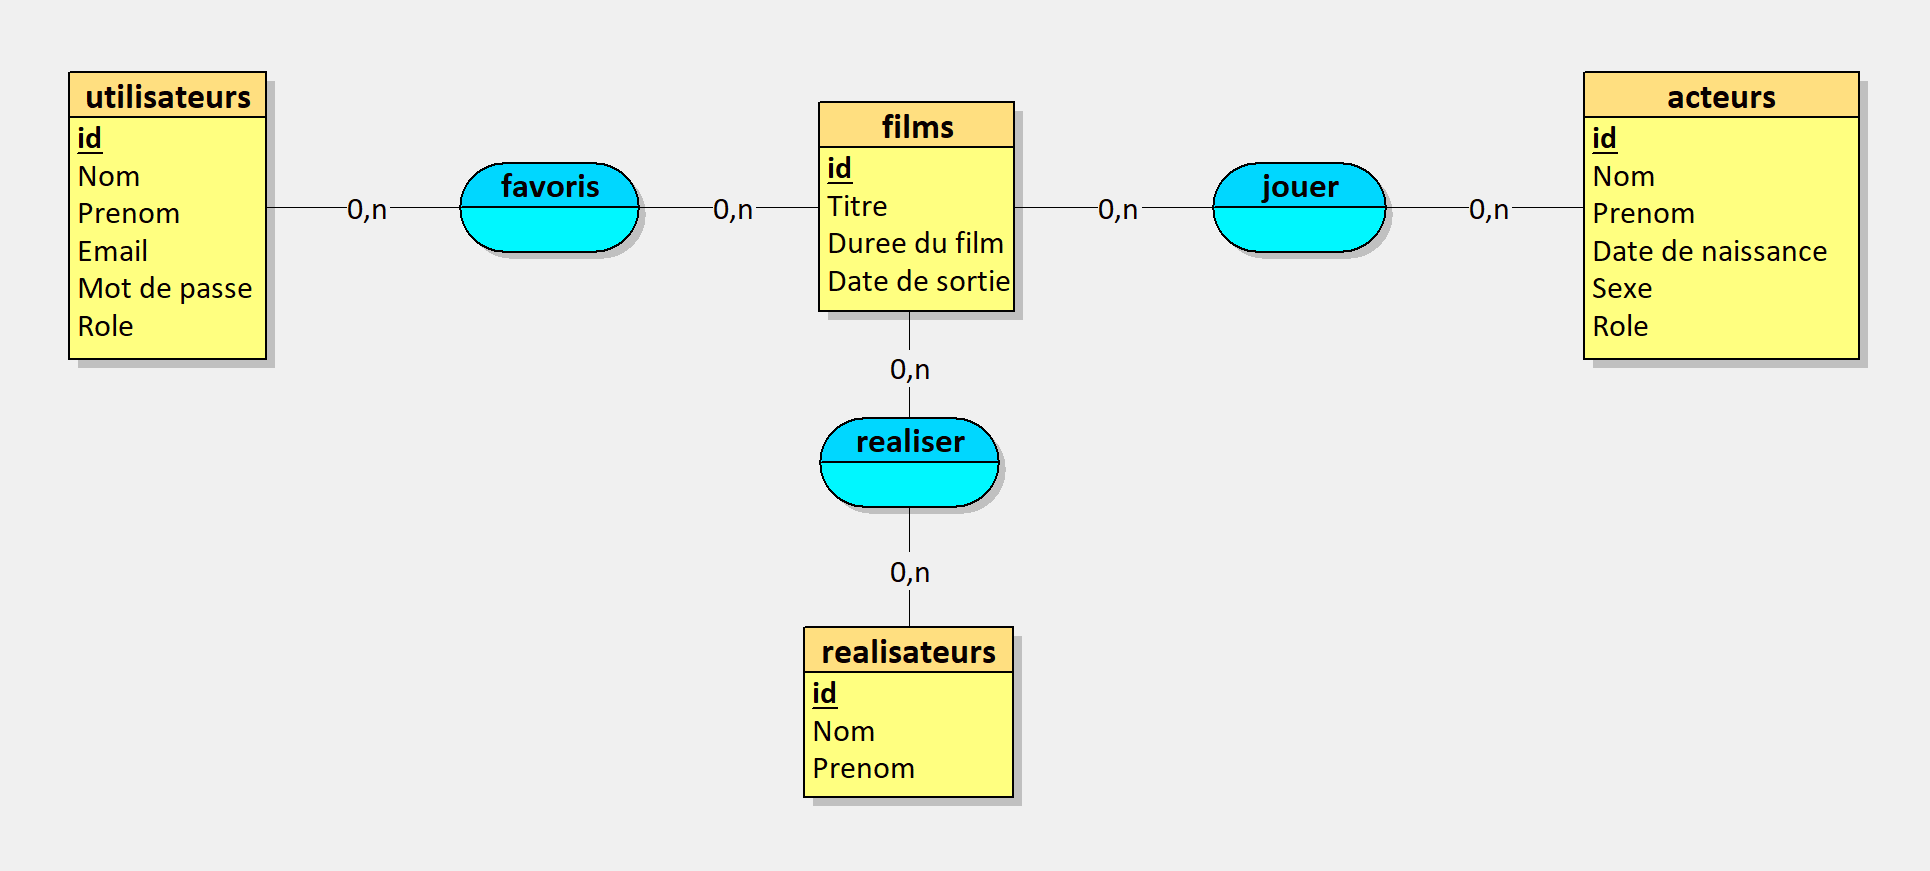
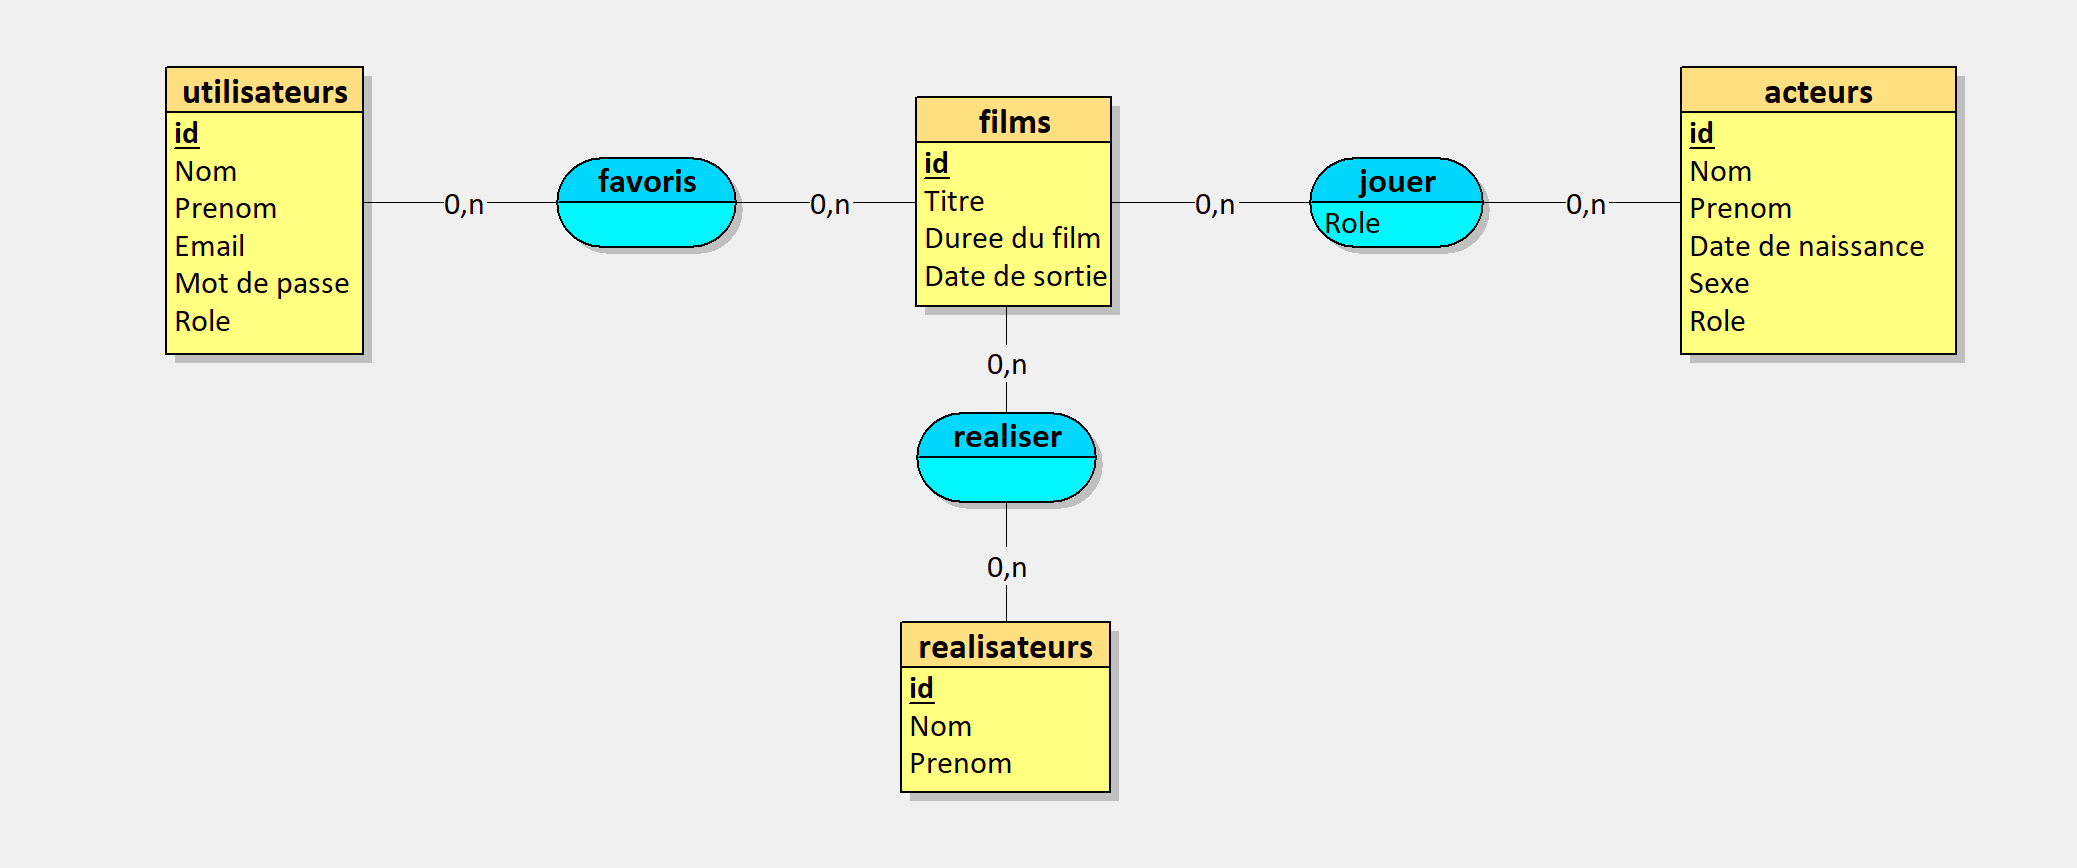
fix(Documents/create_tables.md, requete, Dico, MCD): move Role data in associative table jouer"

diff --git a/Documents/insert_data.md b/Documents/insert_data.md
@@ -16,7 +16,7 @@ VALUES ('Ruben', 'Fleischer'),
        ('Nolan', 'Christopher');
 
 
-INSERT INTO realiser (id_Films, id_Réalisateurs)
+INSERT INTO realiser (id_Films, id_Realisateurs)
 VALUES (1, 1),
 	(2, 2),
        (3, 3),
@@ -24,34 +24,36 @@ VALUES (1, 1),
        (5, 4);
 
 
-INSERT INTO acteurs (Nom, Prenom, Date_de_naissance, Sexe, Role)
-VALUES ('Harrelson', 'Woody', '1961-07-23', 'M', 'Principal'),
-       ('Eisenberg', 'Jesse', '1983-10-05', 'M', 'Principal'),
-       ('Stone', 'Emma', '1988-11-06', 'F', 'Secondaire'),
-       ('Breslin', 'Abigail', '1996-04-14', 'F', 'Secondaire'),
-       ('Travolta', 'John', '1954-02-18', 'M', 'Principal'),
-       ('Jackson', 'Samuel L.', '1948-12-21', 'M', 'Principal'),
-       ('Stoltz', 'Eric', '1961-09-30', 'M', 'Secondaire'),
-       ('Ford', 'Harrison', '1942-07-13', 'M', 'Principal'),
-       ('Hamill', 'Mark', '1951-09-25', 'M', 'Principal'),
-       ('Jeremy', 'Bulloch', '1945-02-16', 'M', 'Secondaire'),
-       ('Murphy', 'Cillian', '1976-05-25', 'M', 'Principal'),
-       ('DiCaprio', 'Leonardo', '1974-11-11', 'M', 'Principal');
+INSERT INTO acteurs (Nom, Prenom, Date_de_naissance, Sexe)
+VALUES ('Harrelson', 'Woody', '1961-07-23', 'M'),
+       ('Eisenberg', 'Jesse', '1983-10-05', 'M'),
+       ('Stone', 'Emma', '1988-11-06', 'F'),
+       ('Breslin', 'Abigail', '1996-04-14', 'F'),
+       ('Travolta', 'John', '1954-02-18', 'M'),
+       ('Jackson', 'Samuel L.', '1948-12-21', 'M'),
+       ('Stoltz', 'Eric', '1961-09-30', 'M'),
+       ('Ford', 'Harrison', '1942-07-13', 'M'),
+       ('Hamill', 'Mark', '1951-09-25', 'M'),
+       ('Jeremy', 'Bulloch', '1945-02-16', 'M'),
+       ('Murphy', 'Cillian', '1976-05-25', 'M'),
+       ('DiCaprio', 'Leonardo', '1974-11-11', 'M');
 
 
-INSERT INTO jouer (id_Films, id_Acteurs)
-VALUES (1, 1),
-	(1, 2),
-       (1, 3),
-       (1, 4),
-       (2, 5),
-       (2, 6),
-       (2, 7),
-       (3, 8),
-       (3, 9),
-       (3, 10),
-       (4, 11),
-       (5, 12);
+INSERT INTO jouer (id_Films, id_Acteurs, Role)
+VALUES 
+    (1, 1, 'Principal'),
+    (1, 2, 'Principal'),
+    (1, 3, 'Secondaire'),
+    (1, 4, 'Secondaire'),
+    (2, 5, 'Principal'),
+    (2, 6, 'Principal'),
+    (2, 7, 'Secondaire'),
+    (3, 8, 'Principal'),
+    (3, 9, 'Principal'),
+    (3, 10, 'Secondaire'),
+    (4, 11, 'Principal'),
+    (5, 12, 'Principal');
+
 
 
 INSERT INTO utilisateurs (Nom, Prenom, Email, Mot_de_passe, Role)

diff --git a/Documents/create_tables.md b/Documents/create_tables.md
@@ -13,8 +13,7 @@ CREATE TABLE IF NOT EXISTS acteurs(
    Nom VARCHAR(25) NOT NULL,
    Prenom VARCHAR(25) NOT NULL,
    Date_de_naissance DATE NOT NULL,
-   Sexe VARCHAR(5) NOT NULL,
-   Role VARCHAR(25) NOT NULL
+   Sexe VARCHAR(5) NOT NULL
 );
 
 CREATE TABLE IF NOT EXISTS realisateurs(
@@ -35,13 +34,14 @@ CREATE TABLE IF NOT EXISTS utilisateurs(
 CREATE TABLE IF NOT EXISTS jouer(
    id INT PRIMARY KEY AUTO_INCREMENT,
    id_Films INT REFERENCES films(id),
-   id_Acteurs INT REFERENCES acteurs(id)
+   id_Acteurs INT REFERENCES acteurs(id),
+   Role VARCHAR(25) NOT NULL
 );
 
 CREATE TABLE IF NOT EXISTS realiser(
    id INT PRIMARY KEY AUTO_INCREMENT,
    id_Films INT REFERENCES films(id),
-   id_Réalisateurs INT REFERENCES realisateurs(id)
+   id_Realisateurs INT REFERENCES realisateurs(id)
 );
 
 CREATE TABLE IF NOT EXISTS favoris(

diff --git a/Documents/requête.md b/Documents/requête.md
@@ -1,4 +1,4 @@
-# Requête SQL
+# Requêtes SQL
 
 
 ### requête 1 :
@@ -22,11 +22,11 @@ ORDER BY Nom, Prenom;
 ### requête 3 :
 
 ```sql
-SELECT Nom, Prenom
+SELECT acteurs.Nom, acteurs.Prenom, Role
 FROM jouer
-INNER JOIN acteurs ON Jouer.id_Acteurs = acteurs.id
+INNER JOIN acteurs ON jouer.id_Acteurs = acteurs.id
 WHERE jouer.id_Films = 1
-      AND acteurs.Role = 'Principal';
+      AND jouer.Role = 'Principal';
 ```
 
 ### requête 4 :

diff --git a/README.md b/README.md
@@ -4,6 +4,10 @@
 
 [Plateforme De Streaming](./Documents/Plateforme_De_Streaming.pdf)
 
+## Le Dictionnaire de données 
+
+![Dictionnaire de données](./Documents/Dico.png)
+
 ## MCD (Modèle Conceptuel de Données)
 
 ![MCD](./Documents/MCD.png)
